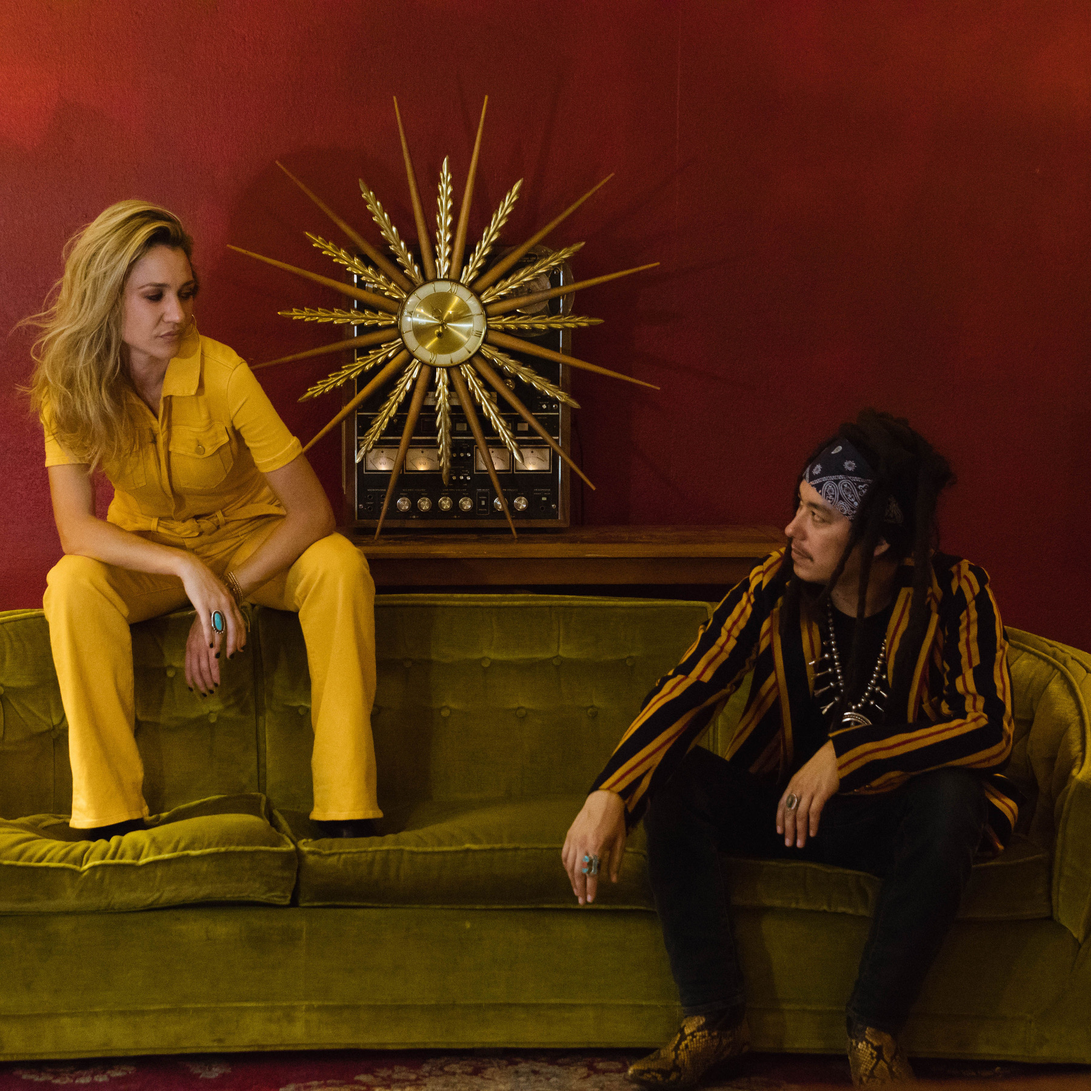
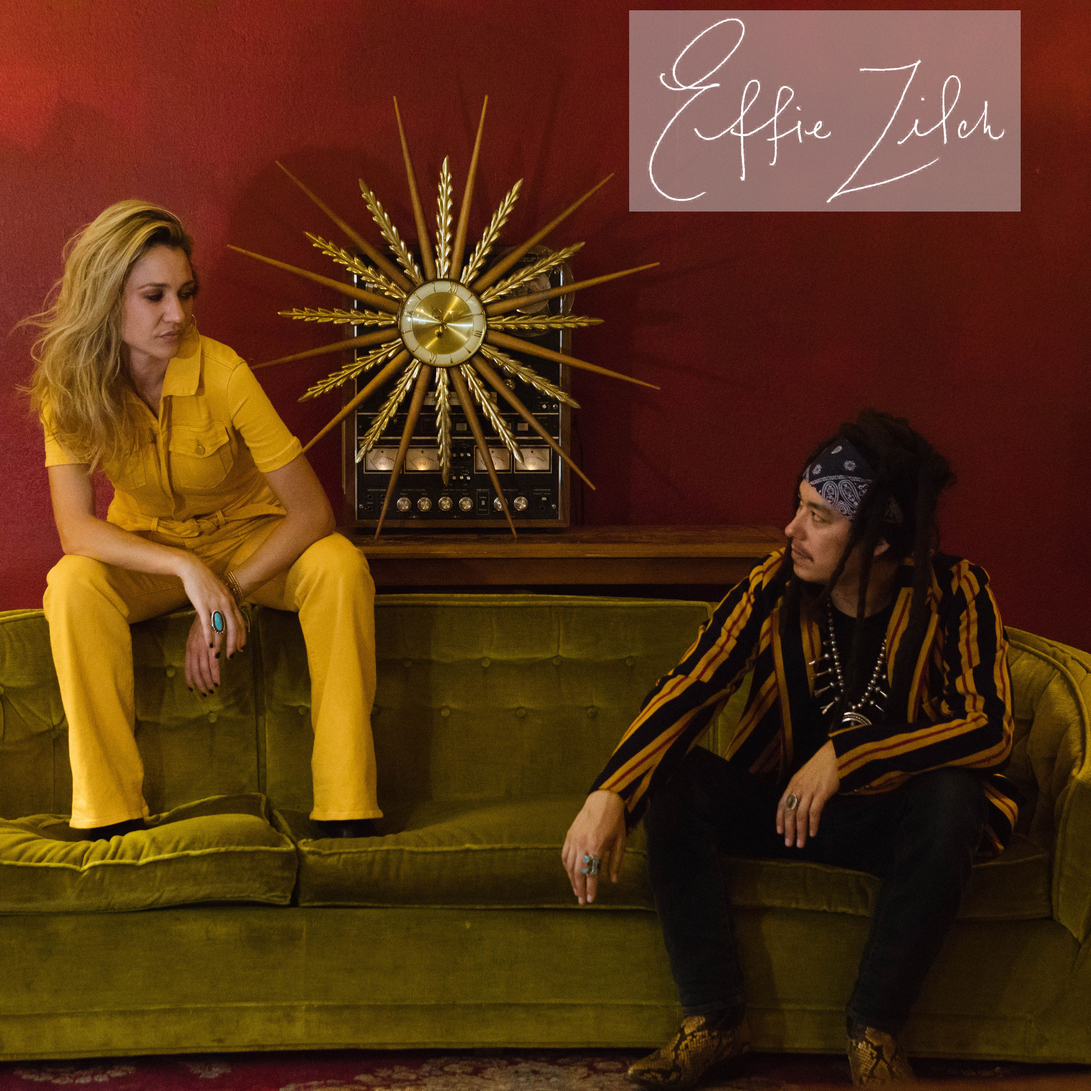
Rich G. Header

Changed region(s): [[0.56, 0.0, 0.9333, 0.2178]]

diff --git a/index.html b/index.html
@@ -59,7 +59,7 @@
 
     <div class="row no-gutters banner">
         <div class="col-sm">
-            <img class="img-fluid" src="css/images/duoMono.JPG" alt="duo image">
+            <img class="img-fluid" src="css/images/richHeader.jpg" alt="duo image">
         </div>
     </div>
 
